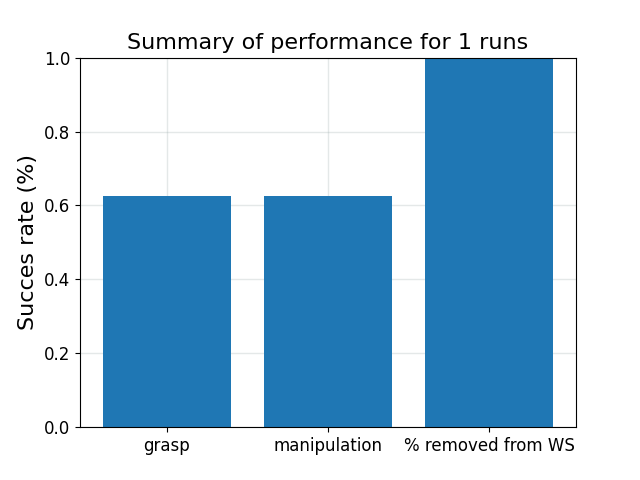
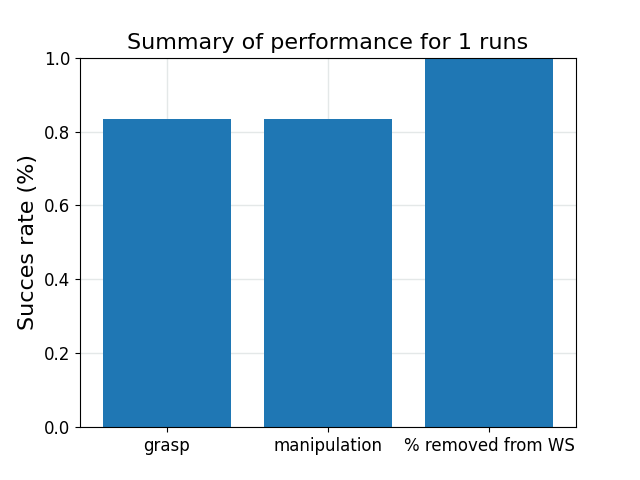
ubuntu 24.04

Changed region(s): [[0.4062, 0.25, 0.625, 0.4062], [0.1562, 0.25, 0.375, 0.4062]]

diff --git a/simulation.py b/simulation.py
@@ -11,6 +11,7 @@ import cv2
 import math
 import matplotlib.pyplot as plt
 import time
+import traceback
 
 
 class GrasppingScenarios():
@@ -68,8 +69,8 @@ class GrasppingScenarios():
     def is_there_any_object(self,camera):
         self.dummy_simulation_steps(10)
         rgb, depth, _ = camera.get_cam_img()
-        #print ("min RGB = ", rgb.min(), "max RGB = ", rgb.max(), "rgb.avg() = ", np.average(rgb))
-        #print ("min depth = ", depth.min(), "max depth = ", depth.max())
+        print ("min RGB = ", rgb.min(), "max RGB = ", rgb.max(), "rgb.avg() = ", np.average(rgb))
+        print ("min depth = ", depth.min(), "max depth = ", depth.max())
         if (depth.max()- depth.min() < 0.0025):
             return False
         else:
@@ -247,8 +248,7 @@ class GrasppingScenarios():
             #self.dummy_simulation_steps(50)
 
             number_of_failures = 0
-            ATTEMPTS = 4
-            number_of_attempts = ATTEMPTS
+            number_of_attempts = self.ATTEMPTS
             failed_grasp_counter = 0
             flag_failed_grasp_counter= False
 
@@ -256,11 +256,17 @@ class GrasppingScenarios():
                 #env.move_arm_away()
                 try: 
                     idx = 0 ## select the best grasp configuration
-                    for i in range(number_of_attempts):
+                    for attempt_idx in range(number_of_attempts):
                         data.add_try()  
-                        rgb, depth, _ = camera.get_cam_img()
-                        rgb = cv2.cvtColor(rgb, cv2.COLOR_BGR2RGB)
-                        
+                        bgr, depth, _ = camera.get_cam_img()
+                        rgb = cv2.cvtColor(bgr, cv2.COLOR_BGR2RGB)
+                        if vis:
+                            try:
+                                cv2.imshow('rgb', bgr)
+                                cv2.waitKey(1)
+                            except cv2.error:
+                                pass
+
                         grasps, save_name = generator.predict_grasp( rgb, depth, n_grasps=number_of_attempts, show_output=output)
                         if (grasps == []):
                                 self.dummy_simulation_steps(30)
@@ -316,8 +322,8 @@ class GrasppingScenarios():
                                 time.sleep(0.25)
                                 p.removeUserDebugItem(debugID)
                                 
-                            if save_name is not None:
-                                    os.rename(save_name + '.png', save_name + f'_SUCCESS_grasp{i}.png')
+                                if save_name is not None:
+                                    os.rename(save_name + '.png', save_name + f'_SUCCESS_grasp{attempt_idx}.png')
                                 
                         else:
                             #env.reset_robot()   
@@ -339,9 +345,15 @@ class GrasppingScenarios():
 
                         #env.reset_all_obj()
         
-                except:
-                    print("An exception occurred during the experiment!!!")
-                    env.reset_robot()
+                except Exception as exc:
+                    print(f"An exception occurred during the experiment: {exc}")
+                    if debug:
+                        traceback.print_exc()
+                    number_of_failures += 1
+                    try:
+                        env.reset_robot()
+                    except Exception:
+                        pass
                     #print ("#objects = ", len(env.obj_ids), "#failed = ", number_of_failures , "#attempts =", number_of_attempts)
         
                 if flag_failed_grasp_counter:

diff --git a/network/utils/dataset_processing/grasp.py b/network/utils/dataset_processing/grasp.py
@@ -182,7 +182,7 @@ class GraspRectangles:
         if pad_to:
             if pad_to > len(self.grs):
                 a = np.concatenate((a, np.zeros((pad_to - len(self.grs), 4, 2))))
-        return a.astype(np.int)
+        return a.astype(int)
 
     @property
     def center(self):
@@ -191,7 +191,7 @@ class GraspRectangles:
         :return: float, mean centre of all GraspRectangles
         """
         points = [gr.points for gr in self.grs]
-        return np.mean(np.vstack(points), axis=0).astype(np.int)
+        return np.mean(np.vstack(points), axis=0).astype(int)
 
 
 class GraspRectangle:
@@ -226,7 +226,7 @@ class GraspRectangle:
         """
         :return: Rectangle center point
         """
-        return self.points.mean(axis=0).astype(np.int)
+        return self.points.mean(axis=0).astype(int)
 
     @property
     def length(self):
@@ -314,7 +314,7 @@ class GraspRectangle:
             ]
         )
         c = np.array(center).reshape((1, 2))
-        self.points = ((np.dot(R, (self.points - c).T)).T + c).astype(np.int)
+        self.points = ((np.dot(R, (self.points - c).T)).T + c).astype(int)
 
     def scale(self, factor):
         """
@@ -349,7 +349,7 @@ class GraspRectangle:
             ]
         )
         c = np.array(center).reshape((1, 2))
-        self.points = ((np.dot(T, (self.points - c).T)).T + c).astype(np.int)
+        self.points = ((np.dot(T, (self.points - c).T)).T + c).astype(int)
 
 
 class Grasp:
@@ -388,7 +388,7 @@ class Grasp:
                 [y2 + self.width / 2 * xo, x2 + self.width / 2 * yo],
                 [y1 + self.width / 2 * xo, x1 + self.width / 2 * yo],
             ]
-        ).astype(np.float))
+        ).astype(float))
 
     def max_iou(self, grs):
         """

diff --git a/grasp_generator.py b/grasp_generator.py
@@ -1,6 +1,5 @@
 import matplotlib.pyplot as plt
 import numpy as np
-from numpy.lib.npyio import save
 import torch.utils.data
 from PIL import Image
 from datetime import datetime
@@ -25,13 +24,19 @@ class GraspGenerator:
     def __init__(self, net_path, camera, depth_radius, fig, IMG_WIDTH=224, network='GR_ConvNet', device='cpu'):
 
         if (device=='cpu'):
-            self.net = torch.load(net_path, map_location=device)
+            try:
+                self.net = torch.load(net_path, map_location=device, weights_only=False)
+            except TypeError:
+                self.net = torch.load(net_path, map_location=device)
             self.device = get_device(force_cpu=True)
         else:
             #self.net = torch.load(net_path, map_location=lambda storage, loc: storage.cuda(1))
             #self.device = get_device()
             print ("GPU is not supported yet! :( -- continuing experiment on CPU!" )
-            self.net = torch.load(net_path, map_location='cpu')
+            try:
+                self.net = torch.load(net_path, map_location='cpu', weights_only=False)
+            except TypeError:
+                self.net = torch.load(net_path, map_location='cpu')
             self.device = get_device(force_cpu=True)
 
         # print (self.net)

diff --git a/network/utils/visualisation/gridshow.py b/network/utils/visualisation/gridshow.py
@@ -21,7 +21,7 @@ def gridshow(name, imgs, scales, cmaps, width, border=10):
         # Scale images into range 0-1
         if scale is not None:
             img = (np.clip(img, scale[0], scale[1]) - scale[0]) / (scale[1] - scale[0])
-        elif img.dtype == np.float:
+        elif np.issubdtype(img.dtype, np.floating):
             img = (img - img.min()) / (img.max() - img.min() + 1e-6)
 
         # Apply colormap (if applicable) and convert to uint8

diff --git a/README.md b/README.md
@@ -45,16 +45,26 @@ The best grasp configuration is then selected and then, we convert the grasp pos
 
 ### Ubuntu instructions
 
+Tested on Ubuntu 24.04.
+
 Ensure you are running Python>=3.6.5 and import the required libraries by running:
 
 ```bash
 cd ~
 git clone https://github.com/SeyedHamidreza/cognitive_robotics_manipulation.git
 cd ~/cognitive_robotics_manipulation
+python3 -m venv .venv
+source .venv/bin/activate
 python3 -m pip install --upgrade pip
 pip3 install -r requirements.txt
 ```
-It will install a set of packages, including: numpy, opencv-python, matplotlib, scikit-image, imageio, torch, torchvision, torchsummary, tensorboardX, pyrealsense2, Pillow, pandas, matplotlib, pybullet
+It will install a set of packages, including: numpy, opencv-python-headless, matplotlib, scikit-image, imageio, torch, torchvision, torchsummary, tensorboardX, pyrealsense2, Pillow, pandas, matplotlib, pybullet
+
+#### Dependency notes (NumPy / OpenCV)
+- If you see `A module that was compiled using NumPy 1.x cannot be run in NumPy 2.x` while importing PyBullet, install a NumPy 1.x build (this repo pins `numpy<2` in `requirements.txt`).
+- If you see OpenCV errors like `Could not load the Qt platform plugin "xcb"`, use the headless OpenCV wheel (`opencv-python-headless`) and/or run without GUI windows.
+
+*Note:* On some Ubuntu setups, `pip` may refuse to install into the system Python due to PEP 668 (“externally managed environment”). Using the virtual environment commands above avoids that.
 
 ```bash
 cd ~
